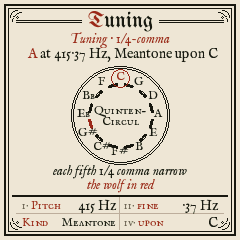
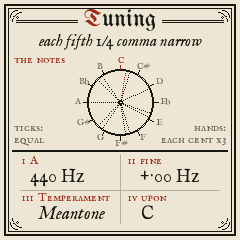
Screenshots and README for the redrawn screens
Claude-Session: https://claude.ai/code/session_018WaJ3ju7qdDWKTwya9DEPZ

Changed region(s): [[0.0583, 0.0292, 0.9625, 0.9625]]

diff --git a/README.md b/README.md
@@ -66,7 +66,10 @@ first sign of trouble. The organ is built to play fully on one core; the System 
 ## The screen
 
 The pages are drawn as a Baroque engraving: ink and red on paper, a double-ruled border, Fraktur titles and
-Fell types (`ui/engraving.c`). The four knobs are indexed i–iv along the foot of every page. The faces are
+Fell types (`ui/engraving.c`), sized on the old printers' scale (labels 12 px, lists and captions 16, values 18,
+titles 24). The four knobs are a table at the foot of every page, i–iv, each a small red label over its value. The
+Tuning page is a clock face: the equal steps as ticks round the dial, each note a dotted hand, its offset from the
+tick drawn three times over. The faces are
 rendered into bitmap fonts by `tools/gen_kist_fonts.py` (into `ui/kist_fonts.h`) from:
 
 - UnifrakturMaguntia, SIL Open Font License 1.1 (`assets/fonts/OFL-UnifrakturMaguntia.txt`)
